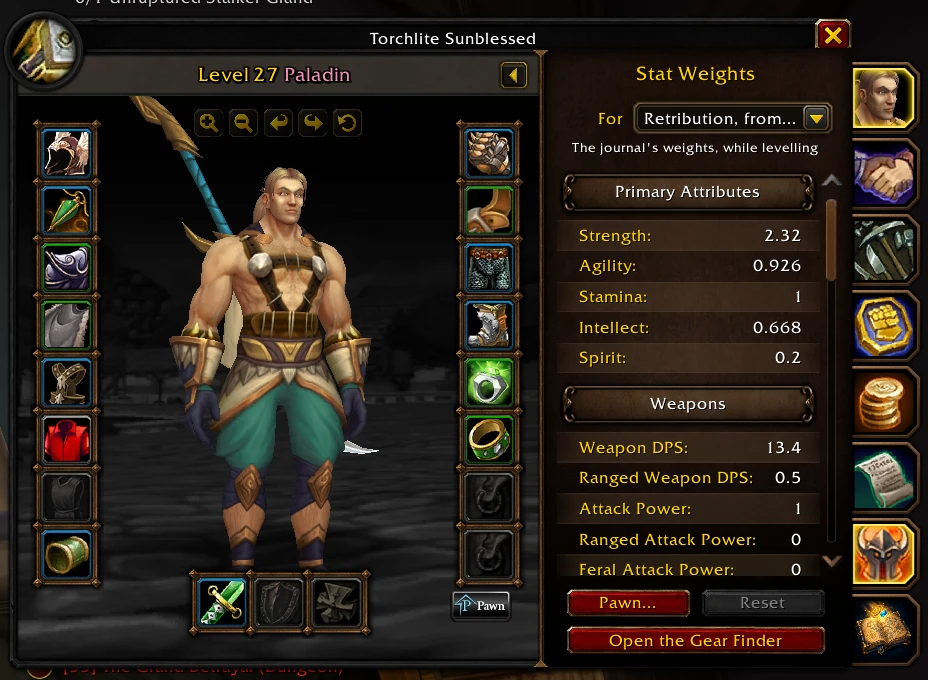
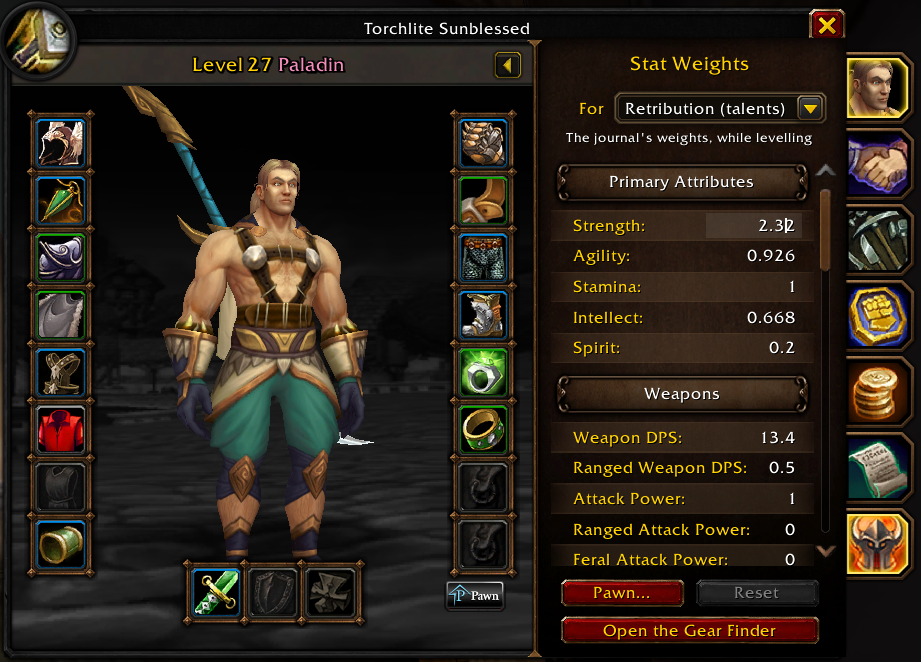
0.30.0: the Gear Finder
Version, changelog and README title; the README's two Gear Finder pictures
are the new screenshots.

Changed region(s): [[0.0, 0.0, 1.0, 1.0], [0.8208, 0.4532, 0.8817, 0.5438]]

diff --git a/CHANGELOG.md b/CHANGELOG.md
@@ -12,6 +12,29 @@ and the version shown in the AddOns list. Quote it in bug reports.
 
 ---
 
+## [0.30.0] (restart)
+
+### Added
+- **Gear Finder**, a new tab: the best upgrade waiting for each slot in the dungeons that
+  start no more than three levels above you, laid out like your character sheet. Each shows
+  what it adds to all the gear you wear and where it drops; one you can wear in a few levels
+  shows that level in red. A click opens its loot. The dungeon holding the most upgrades is
+  suggested, and the others are a click apart.
+- **Scored for your spec**: the one your talents say, or one you pick, with Aegis: Pathfinder's
+  stat weights (one set while levelling, another at 60).
+- **Stat weights you can change**, kept for each character and spec: click a weight and type a
+  new one; yours show in green, and **Reset** brings the journal's back. Or bring in a scale
+  from **Pawn**: paste what its Export gives.
+- **A tab on the character panel** opens your stat weights over the panel's stats, with a button
+  to the Gear Finder. It takes the first place under the panel's own tabs; another addon's tab
+  found there moves down under it.
+- `/aegis gear` and `/aegis weights`. `/aegis gearscan` saves what the Gear Finder reads from
+  your gear, so its scoring can be checked against Forever's own words.
+
+### Changed
+- **Record is now the last tab**, after Gear Finder. The journal still reopens on the tab you
+  last had open.
+
 ## [0.29.1]
 
 ### Changed

diff --git a/README.md b/README.md
@@ -1,6 +1,6 @@
 <p align="center"><img src="docs/images/logo.png" alt="Aegis Instance Journal" width="220"></p>
 
-# Aegis: Forever Instance Journal (v0.28.0)
+# Aegis: Forever Instance Journal (v0.30.0)
 
 **Retail's instance journal and dungeon maps, brought to WoW: Forever.**
 
